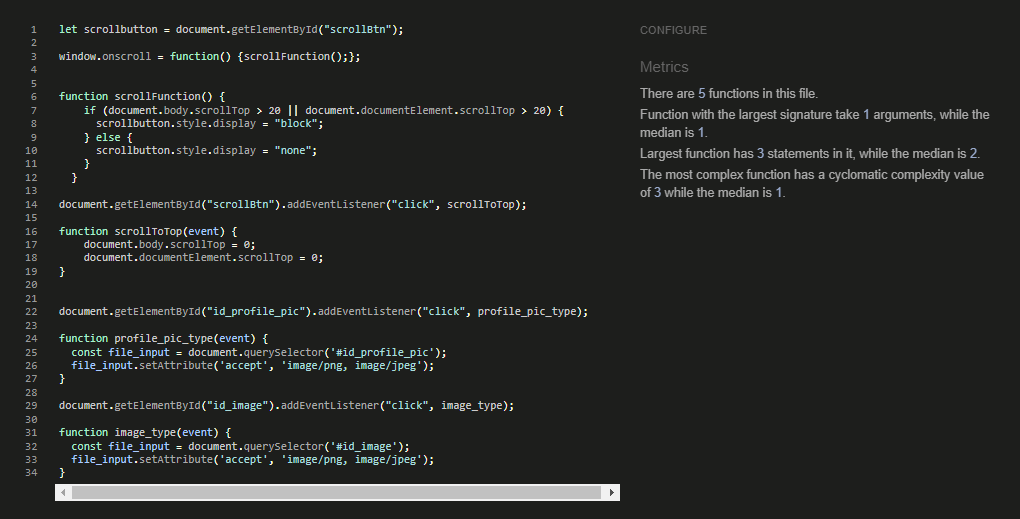
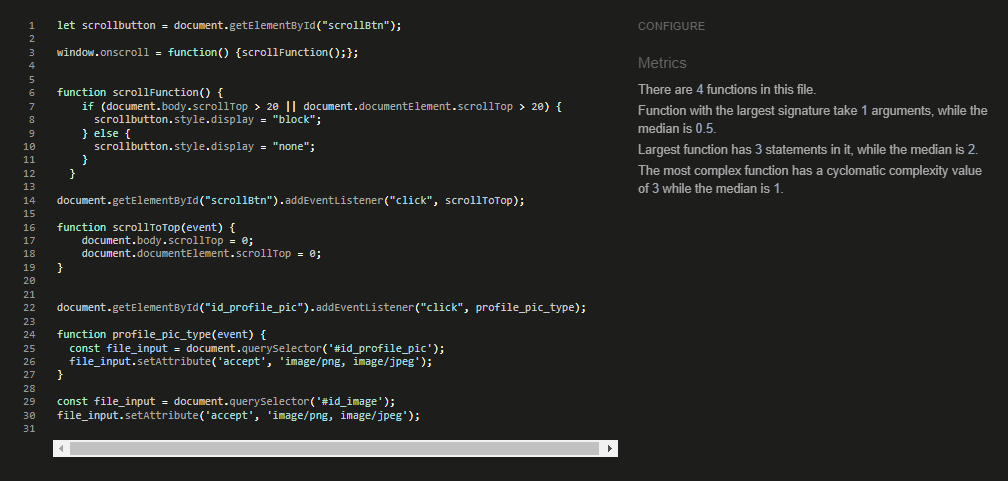
Update: JSHint screenshot

diff --git a/static/js/script.js b/static/js/script.js
@@ -26,9 +26,3 @@ function profile_pic_type(event) {
   file_input.setAttribute('accept', 'image/png, image/jpeg');
 }
 
-document.getElementById("id_image").addEventListener("click", image_type);
-
-function image_type(event) {
-  const file_input = document.querySelector('#id_image');
-  file_input.setAttribute('accept', 'image/png, image/jpeg');
-}

diff --git a/post/templates/post/create_post.html b/post/templates/post/create_post.html
@@ -24,9 +24,9 @@
     </div>
 </div>
 
-<!-- <script>
+<script>
     const file_input = document.querySelector('#id_image');
     file_input.setAttribute('accept', 'image/png, image/jpeg');
-</script> -->
+</script>
 
 {% endblock %}

diff --git a/pic_pals/settings.py b/pic_pals/settings.py
@@ -29,7 +29,7 @@ TEMPLATES_DIR = os.path.join(BASE_DIR, 'templates')
 SECRET_KEY = os.environ.get('SECRET_KEY')
 
 # SECURITY WARNING: don't run with debug turned on in production!
-DEBUG = True
+DEBUG = False
 
 ALLOWED_HOSTS = ['pic-pals-pp4.herokuapp.com', 'localhost', '127.0.0.1']
 
